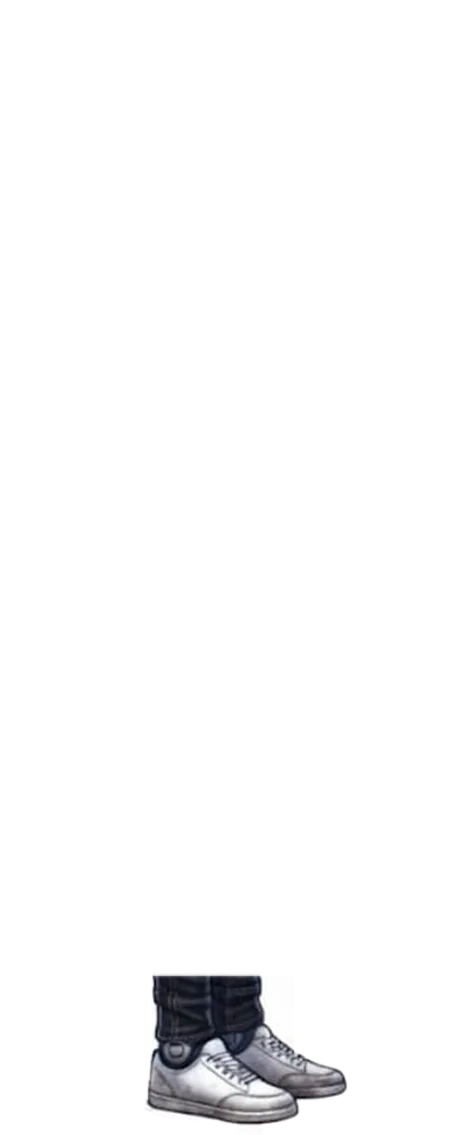
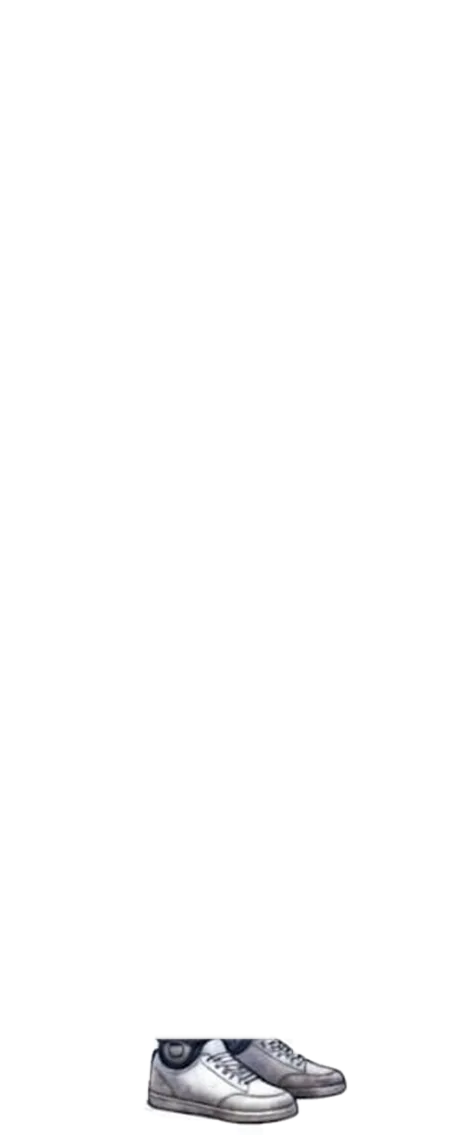
Tenis solo con el zapato, pantalón encima del calzado y sin cabello largo

Changed region(s): [[0.3348, 0.8326, 0.6087, 0.9251]]

diff --git a/js/vestidor.js b/js/vestidor.js
@@ -11,7 +11,7 @@ let categoriaActual = CATEGORIAS[0].id;
 const ropa = m => P.vestidor.puesto[m];      // categoría -> id de prenda, por modelo
 // Ranuras de ropa en el orden en que se dibujan (de abajo hacia arriba).
 // Los accesorios tienen varias ranuras para poder usar cabello, gorra y reloj a la vez.
-const ORDEN_CAPAS = ["inferior", "torso", "calzado", "encima", "cabello", "cabeza", "muneca"];
+const ORDEN_CAPAS = ["calzado", "inferior", "torso", "encima", "cabello", "cabeza", "muneca"];   // el pantalón cae sobre el tenis
 const conRopa = m => ORDEN_CAPAS.some(r => PRENDAS.some(p => p.id === ropa(m)[r]));
 const luzDe = m => LUCES.find(l => l.id === P.vestidor.luces[m]) || LUCES[0];
 const filtroLuz = () => { const f = luzDe(modeloActual).filtro; return f === "none" ? "" : `style="filter:${f}"`; };

diff --git a/js/closet.js b/js/closet.js
@@ -119,7 +119,6 @@ const PRENDAS = [
   prenda("hombre", "chaleco-mezclilla",    "Chaleco de mezclilla con parches",   "encima",   70),
   prenda("hombre", "chamarra-biker",       "Chamarra biker de piel",             "encima",   80),
   prenda("hombre", "chamarra-biker-dorada","Chamarra biker con cierres dorados", "encima",   100),
-  prenda("hombre", "cabello-largo",        "Cabello largo",                      "accesorio", 30, "cabello"),
   prenda("hombre", "gorra-negra",          "Gorra negra",                        "accesorio", 20, "cabeza"),
   prenda("hombre", "reloj",                "Reloj inteligente",                  "accesorio", 25, "muneca")
 ];

diff --git a/admin.html b/admin.html
@@ -201,7 +201,7 @@
 
     /* =================== PROBADOR (todo desbloqueado) =================== */
     const PB = { modelo: "mujer", vista: 0, luces: { mujer: "azul", hombre: "azul" }, puesto: { mujer: {}, hombre: {} } };
-    const PB_CAPAS = ["inferior", "torso", "calzado", "encima", "cabello", "cabeza", "muneca"];
+    const PB_CAPAS = ["calzado", "inferior", "torso", "encima", "cabello", "cabeza", "muneca"];
     const pbEsc = t => String(t).replace(/[&<>"]/g, c => ({ "&": "&amp;", "<": "&lt;", ">": "&gt;", '"': "&quot;" }[c]));
 
     function pintarProbador() {
